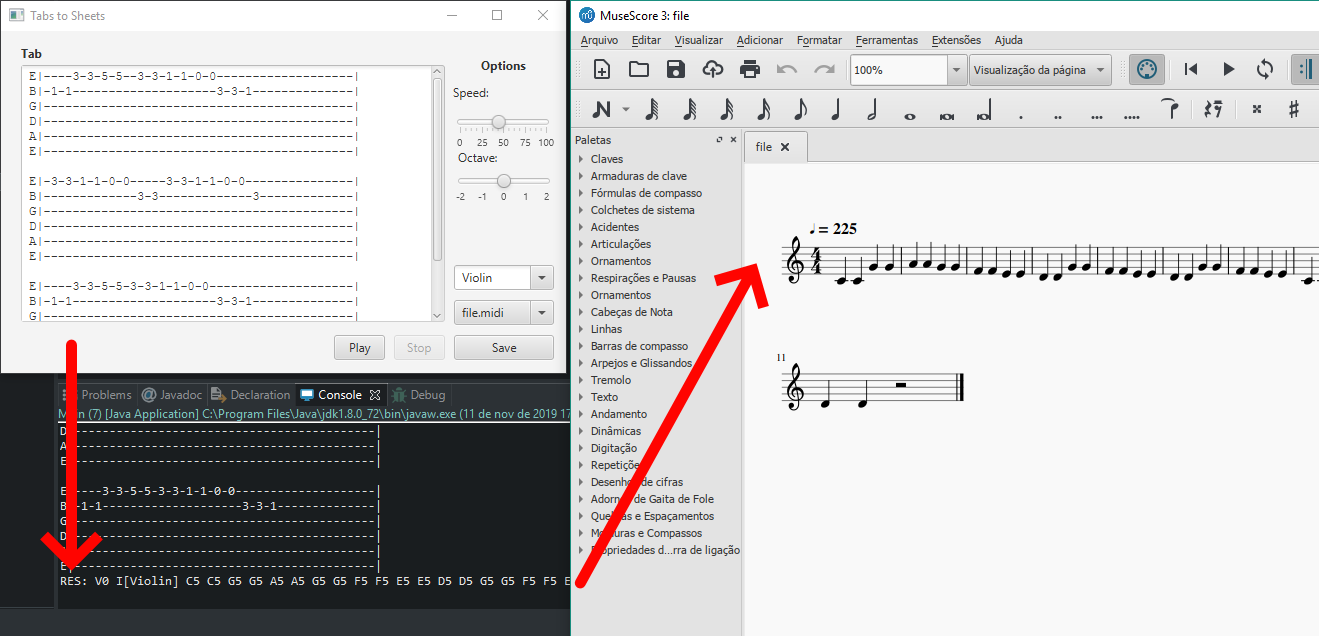
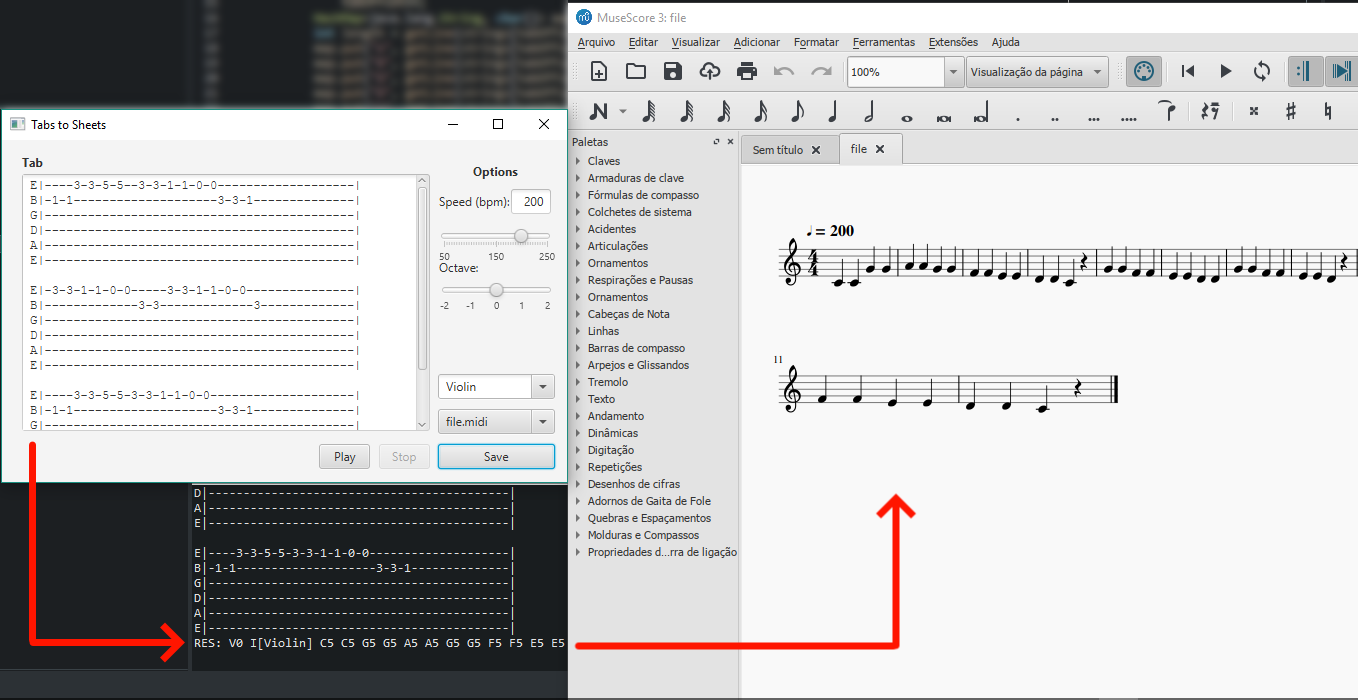
Fix issues
Fixed issues:
  - Last note of each tab wasn't  being reproduced/saved.
  - Tabs with chords above them weren't recognizeble.
  - Speed wasn't in the BPM format.
  - Instrument field had to lose focus to refresh.

Added features:
  - Speed now has BPM (50-250) field to type in.

Changed region(s): [[0.0, 0.0, 1.0, 1.0]]

diff --git a/src/me/mateusaquino/tts/Guitar.java b/src/me/mateusaquino/tts/Guitar.java
@@ -1,6 +1,8 @@
 package me.mateusaquino.tts;
 
 import java.util.HashMap;
+import java.util.regex.Matcher;
+import java.util.regex.Pattern;
 
 public class Guitar {
 	private java.lang.String melody = "";
@@ -9,16 +11,16 @@ public class Guitar {
 		java.lang.String[] strings = tab.trim().split("\n");
 		for (int tabOffset = 0; tabOffset < strings.length-5; tabOffset+=6){
 			String[] guitarStrings = {new String("e"),new String("B"),new String("G"),new String("D"),new String("A"),new String("E")};
-			while (strings[tabOffset].trim().isEmpty())
+			while (!strings[tabOffset].trim().matches("^\\w\\|[^|]+?\\|"))
 				tabOffset++;
 			HashMap<java.lang.String, char[]> map = new HashMap<java.lang.String, char[]>();
-			int length = strings[tabOffset+0].trim().toCharArray().length;
-			map.put("e", strings[tabOffset+0].trim().toCharArray());
-			map.put("B", strings[tabOffset+1].trim().toCharArray());
-			map.put("G", strings[tabOffset+2].trim().toCharArray());
-			map.put("D", strings[tabOffset+3].trim().toCharArray());
-			map.put("A", strings[tabOffset+4].trim().toCharArray());
-			map.put("E", strings[tabOffset+5].trim().toCharArray());
+			int length = getLine(strings[tabOffset+0]).length;
+			map.put("e", getLine(strings[tabOffset+0]));
+			map.put("B", getLine(strings[tabOffset+1]));
+			map.put("G", getLine(strings[tabOffset+2]));
+			map.put("D", getLine(strings[tabOffset+3]));
+			map.put("A", getLine(strings[tabOffset+4]));
+			map.put("E", getLine(strings[tabOffset+5]));
 					
 			int oldpos = -1;
 			java.lang.String oldnote = "";
@@ -43,7 +45,15 @@ public class Guitar {
 				}
 				guitarStrings = sort(guitarStrings); // ordena as cordas p/ poder ler em ordem
 			}
+			melody += oldnote + " R ";
 		}
+	}
+	
+	Pattern lineRgx = Pattern.compile("^\\w\\|[^|]+?\\|");
+	public char[] getLine(java.lang.String str){
+		Matcher m = lineRgx.matcher(str.trim()); 
+		m.find();
+		return m.group(0).toCharArray();
 	}
 	
 	public java.lang.String toMelody(){

diff --git a/src/me/mateusaquino/tts/PrincipalController.java b/src/me/mateusaquino/tts/PrincipalController.java
@@ -22,6 +22,7 @@ import javafx.scene.control.Label;
 import javafx.scene.control.Slider;
 import javafx.scene.control.SplitMenuButton;
 import javafx.scene.control.TextArea;
+import javafx.scene.control.TextField;
 import javafx.stage.FileChooser;
 import javafx.stage.FileChooser.ExtensionFilter;
 
@@ -34,6 +35,7 @@ public class PrincipalController {
     @FXML private SplitMenuButton file;
     @FXML private TextArea tab;
     @FXML private Label fail;
+    @FXML private TextField bpm;
     @FXML private ComboBox<String> instrument;
     private ManagedPlayer player;
     private Pattern seq;
@@ -61,6 +63,25 @@ public class PrincipalController {
     	stop.setOnMouseClicked(e->actionStop());
     	save.setOnMouseClicked(e->actionSave());
     	file.setOnMouseClicked(e->actionChoose());
+    	
+    	speed.valueProperty().addListener((e, o, n)->bpm.setText(n.intValue()+""));
+    	bpm.textProperty().addListener((e, o, n)->{
+    		if(n.isEmpty())
+    			bpm.setText("0");
+    		else if (!n.matches("^\\d+$"))
+    			bpm.setText(o);
+    		int val = Integer.parseInt(bpm.getText());
+    		if (val>50&&val<250)
+    			speed.setValue(val);
+    		bpm.setText(val+"");
+    	});
+    	
+    	bpm.focusedProperty().addListener((e, o, n) -> {if (!n) {
+    		int val = Integer.parseInt(bpm.getText());
+    		val = val>250 ? 250 : val<50 ? 50 : val; // Valores apenas entre 50-250 para bpm
+    		speed.setValue(val);
+    		bpm.setText(val+"");
+    	}});
     	
     	tab.setText("E|----3-3-5-5--3-3-1-1-0-0-------------------|\n"+
     				"B|-1-1--------------------3-3-1--------------|\n"+
@@ -166,7 +187,7 @@ public class PrincipalController {
     	melody = MelodyFix.fix(melody, instrument.getValue());
     	System.out.println("RES: " + melody);
     	
-    	seq = new Pattern(""+melody).setTempo((int) (speed.getValue()*5));
+    	seq = new Pattern(""+melody).setTempo((int) (speed.getValue()));
     }
     
     private Sequence getSequence(){
